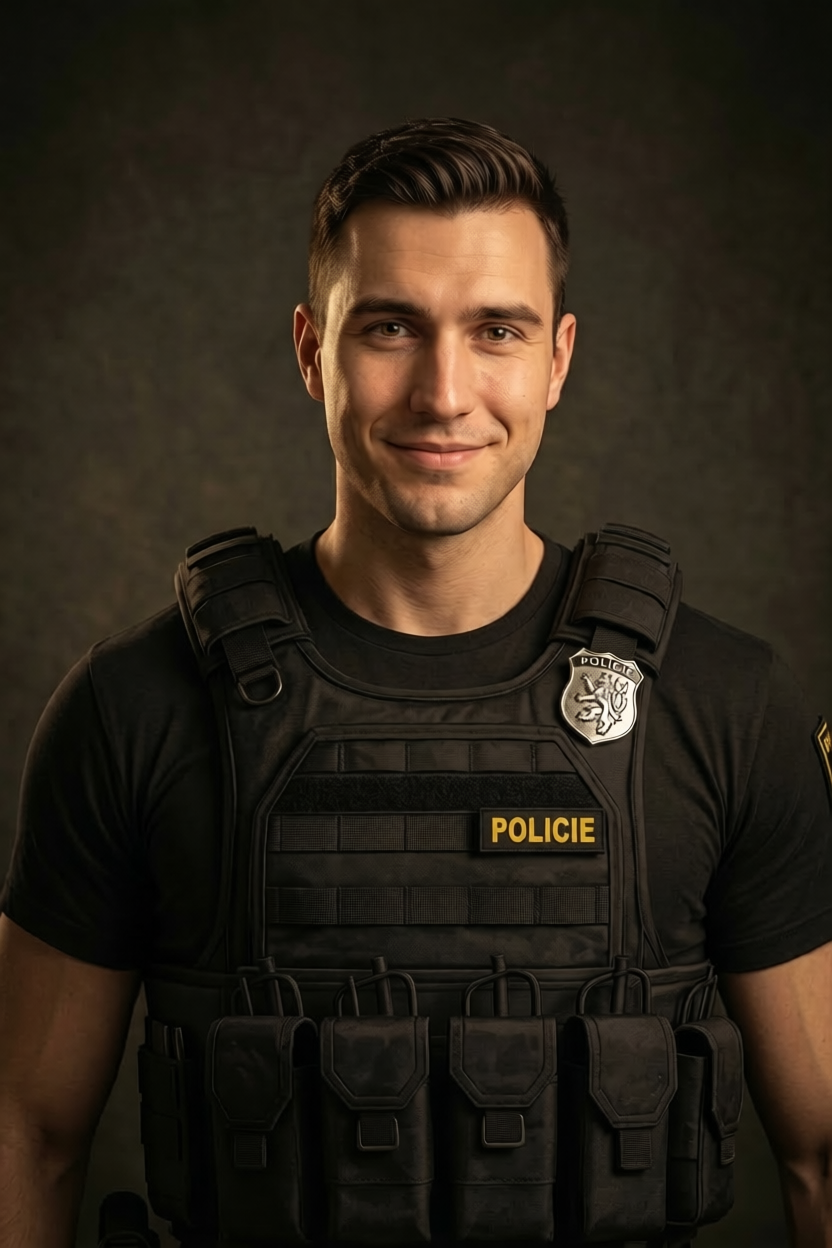
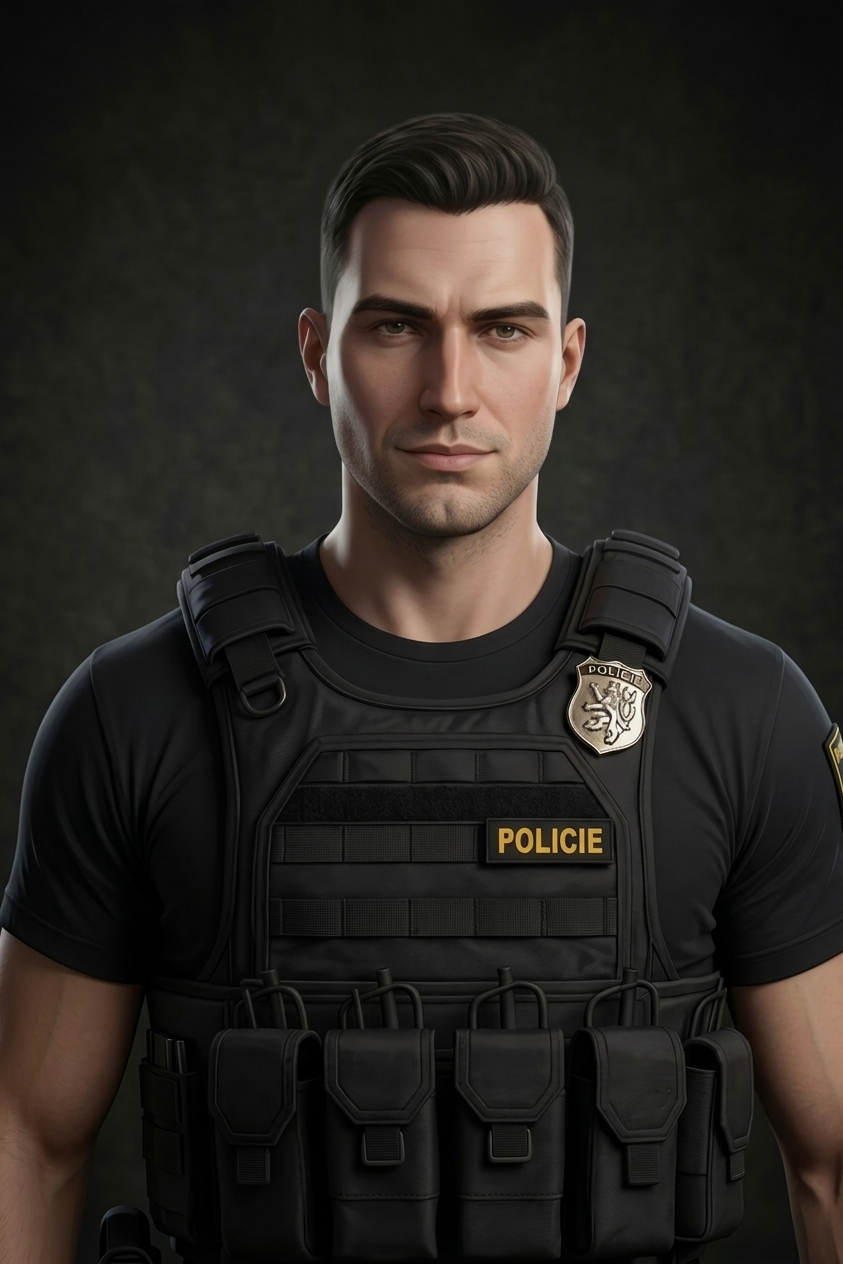
Update difficulty portraits and related assets for improved visuals and consistency

diff --git a/tools/gen_bg.py b/tools/gen_bg.py
@@ -35,6 +35,7 @@ SPRITES_DIR = REPO_ROOT / "REFACTOR" / "game" / "images" / "sprites"
 CARDS_DIR = REPO_ROOT / "REFACTOR" / "game" / "images" / "cards"
 EVENTS_DIR = REPO_ROOT / "REFACTOR" / "game" / "images" / "events"
 RELICS_DIR = REPO_ROOT / "REFACTOR" / "game" / "images" / "relics"
+PICTURES_DIR = REPO_ROOT / "REFACTOR" / "game" / "images" / "pictures"
 
 DEFAULT_MODEL = "gemini-3.1-flash-image-preview"
 
@@ -78,6 +79,8 @@ def main() -> int:
                    help="output to images/events/ as JPG (event_screen / event_outcome art panels)")
     p.add_argument("--relics", action="store_true",
                    help="output to images/relics/ as PNG (relic_tray picks these up by relic_id filename)")
+    p.add_argument("--pictures", action="store_true",
+                   help="output to images/pictures/ as PNG (difficulty portraits etc.)")
     args = p.parse_args()
 
     for ref in args.ref:
@@ -102,6 +105,8 @@ def main() -> int:
         out_dir, ext = EVENTS_DIR, "jpg"
     elif args.relics:
         out_dir, ext = RELICS_DIR, "png"
+    elif args.pictures:
+        out_dir, ext = PICTURES_DIR, "png"
     else:
         out_dir, ext = BG_DIR, "jpg"
     out_dir.mkdir(parents=True, exist_ok=True)
